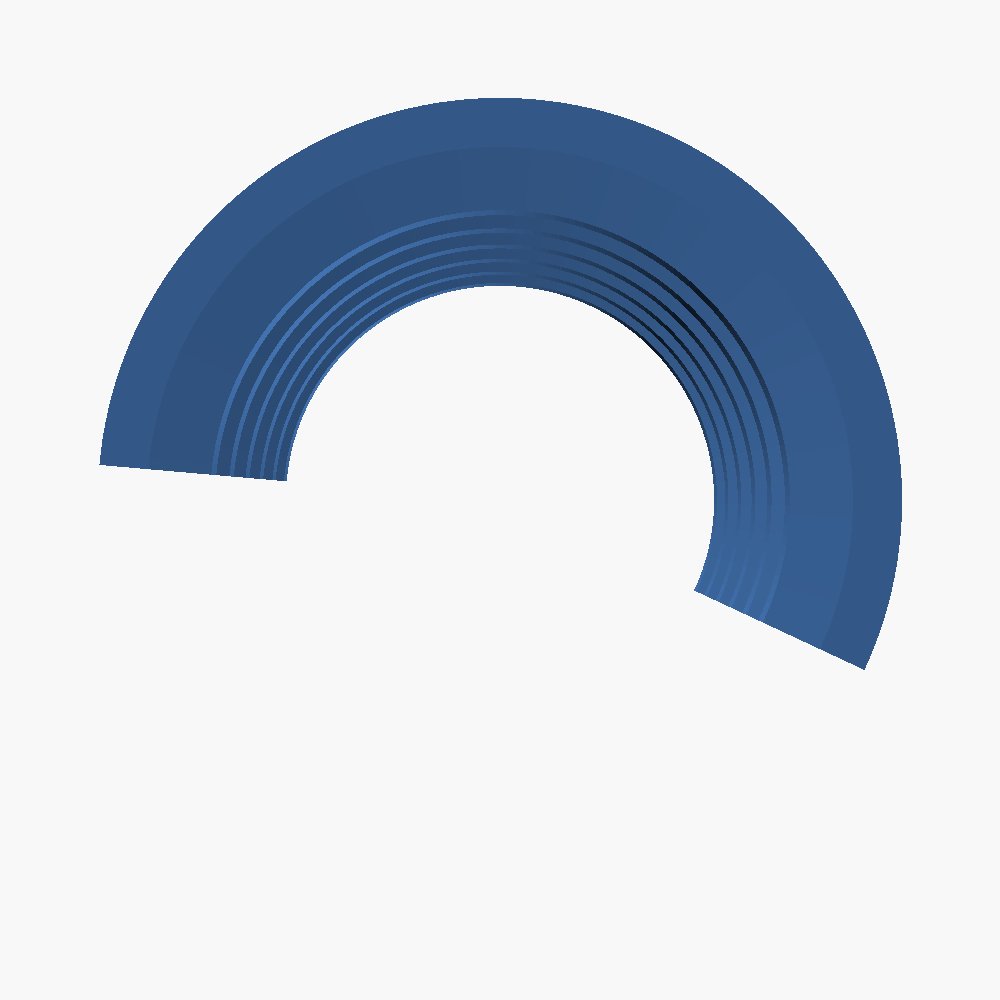
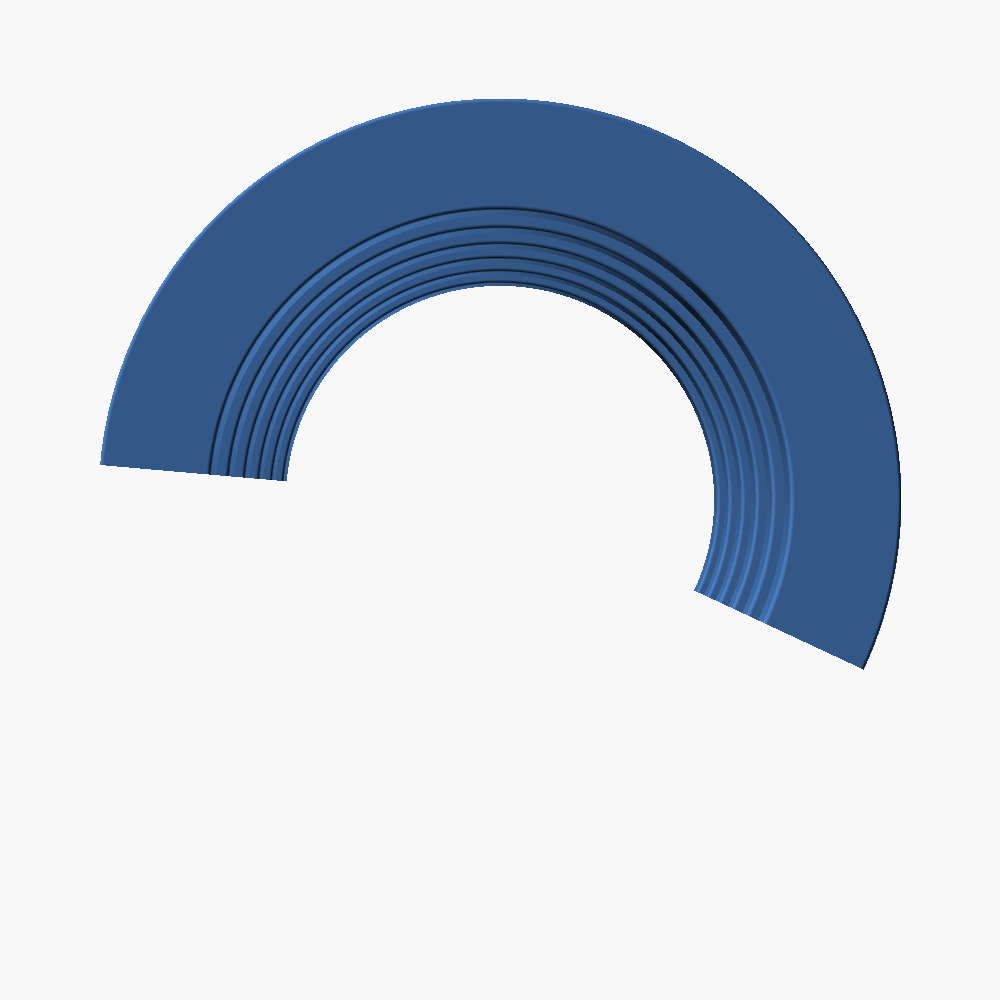
Replace corr_chamfer with corr_round fillet; add 40 mm 25-deg fit-test preset
- Round corrugation corners with a true offset() fillet instead of a straight bevel
- Share section_2d() between the model and the dimensioned drawing
- Skip the flange module when flange_overhang = 0
- Add conduit_40mm_fittest preset (measured 40 mm pipe, 3 mm teeth, 25-deg sliver)

diff --git a/README.md b/README.md
@@ -56,7 +56,7 @@ All renders above (the 3D views and the dimensioned drawing) are regenerated by
 | `corr_depth` | `1.4` | How far the grip teeth bite into the conduit grooves (mm) |
 | `corr_width` | `1.2` | Width of each grip tooth along the pipe axis (mm) |
 | `groove_width` | `2.59` | Width of each recess (over a crest) along the axis (mm) |
-| `corr_chamfer` | `0.1` | Bevel on the tooth/recess edges (mm); `0` = sharp square teeth |
+| `corr_round` | `0.1` | Fillet radius on the tooth/recess edges (mm); `0` = sharp corners |
 | `corr_count` | `6` | Number of corrugation periods → sets the length |
 | `coverage_deg` | `200` | Degrees of the pipe circumference covered |
 | `flange_overhang` | `3` | How far the flange extends beyond the pipe width (mm) |
@@ -73,9 +73,10 @@ You give the two diameters and the rest is **derived**:
   `(bore_diameter − pipe_diameter) / 2` (here 1 mm radial).
 - The grip teeth bite `corr_depth` into the conduit's grooves (down to the valley), so the
   part is thicker at the teeth and thinnest (= available material) at the recesses.
-- Real conduit crests and valleys are rounded/U-shaped rather than square. `corr_chamfer`
-  bevels the tooth and recess edges to match (set it to `0` for sharp square teeth). It must
-  be ≤ half the smaller of `corr_width`/`groove_width` (asserted in the model).
+- Real conduit crests and valleys are rounded/U-shaped rather than square. `corr_round`
+  fillets the tooth and recess edges with a true radius to match (set it to `0` for sharp
+  corners). It must be ≤ half the smaller of `corr_width`/`groove_width` and ≤ `corr_depth`
+  (both asserted in the model).
 - Flange Ø = `pipe_diameter + 2·flange_overhang` (here 22 mm) — catches on the wall hole.
 - Length = `corr_count · (corr_width + groove_width)` (always whole corrugation periods).
   The defaults were measured off a real "16 mm" conduit: crest Ø 15.8, valley Ø 13.0
@@ -98,8 +99,8 @@ covered by **part -22**. The **nominal size equals the outer (crest) diameter**,
 16/20/25 mm are the common domestic sizes; the default model uses **16 mm**.
 
 > ⚠ **The standard fixes the nominal diameter, but *not* the corrugation depth or
-> pitch** — these vary between makers and pipe types. Don't assume the defaults
-> (`corr_depth = 1`, pitch `1.5 + 1.5`) match your pipe.
+> pitch** — these vary between makers and pipe types. Don't assume the defaults match your
+> pipe; the defaults were measured off one specific "16 mm" conduit.
 
 ### How to measure your conduit
 
@@ -126,17 +127,21 @@ Named parameter sets for the common IEC/EN 61386 conduit sizes live in
 [`pipe_clamp.json`](pipe_clamp.json) (OpenSCAD Customizer presets — they appear in the
 Customizer's preset dropdown in the GUI):
 
-| Preset | `pipe_diameter` | `bore_diameter` |
-|---|---|---|
-| `conduit_16mm` | 16 | 18 |
-| `conduit_20mm` | 20 | 22 |
-| `conduit_25mm` | 25 | 27 |
-| `conduit_32mm` | 32 | 34 |
-| `conduit_40mm` | 40 | 42 |
+| Preset | `pipe_diameter` | `bore_diameter` | Notes |
+|---|---|---|---|
+| `conduit_16mm` | 16 | 18 | |
+| `conduit_20mm` | 20 | 22 | |
+| `conduit_25mm` | 25 | 27 | |
+| `conduit_32mm` | 32 | 34 | |
+| `conduit_40mm` | 40 | 42 | |
+| `conduit_40mm_fittest` | 40 | 43 | 25° fit-test sliver, measured 40 mm pipe (3 mm deep teeth, no flange) |
 
-Each preset only sets the two diameters (bore = pipe + 2 mm) and inherits the default
-corrugation/flange values — **adjust `corr_depth` and pitch to your actual pipe**
-(see [How to measure your conduit](#how-to-measure-your-conduit)).
+The plain `conduit_*` presets only set the two diameters (bore = pipe + 2 mm) and inherit
+the default corrugation/flange values — **adjust `corr_depth` and pitch to your actual
+pipe** (see [How to measure your conduit](#how-to-measure-your-conduit)). The `_fittest`
+preset shows the fuller pattern: a measured 40 mm conduit (crest 40, valley 34, pitch
+5.33 = 4 mm crest + 1.33 mm valley) rendered as a narrow 25° arc to print-test the tooth
+fit cheaply before committing to a full clamp.
 
 Render one preset from the command line:
 
